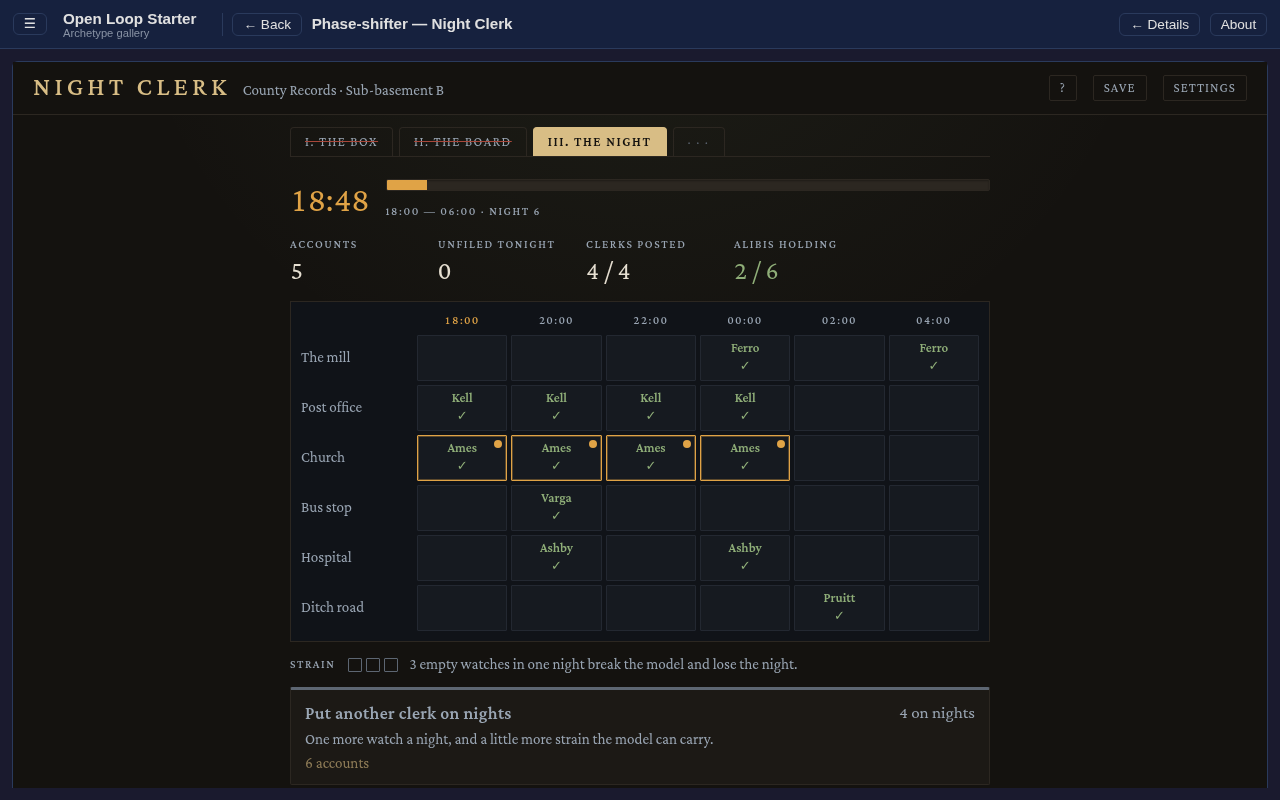
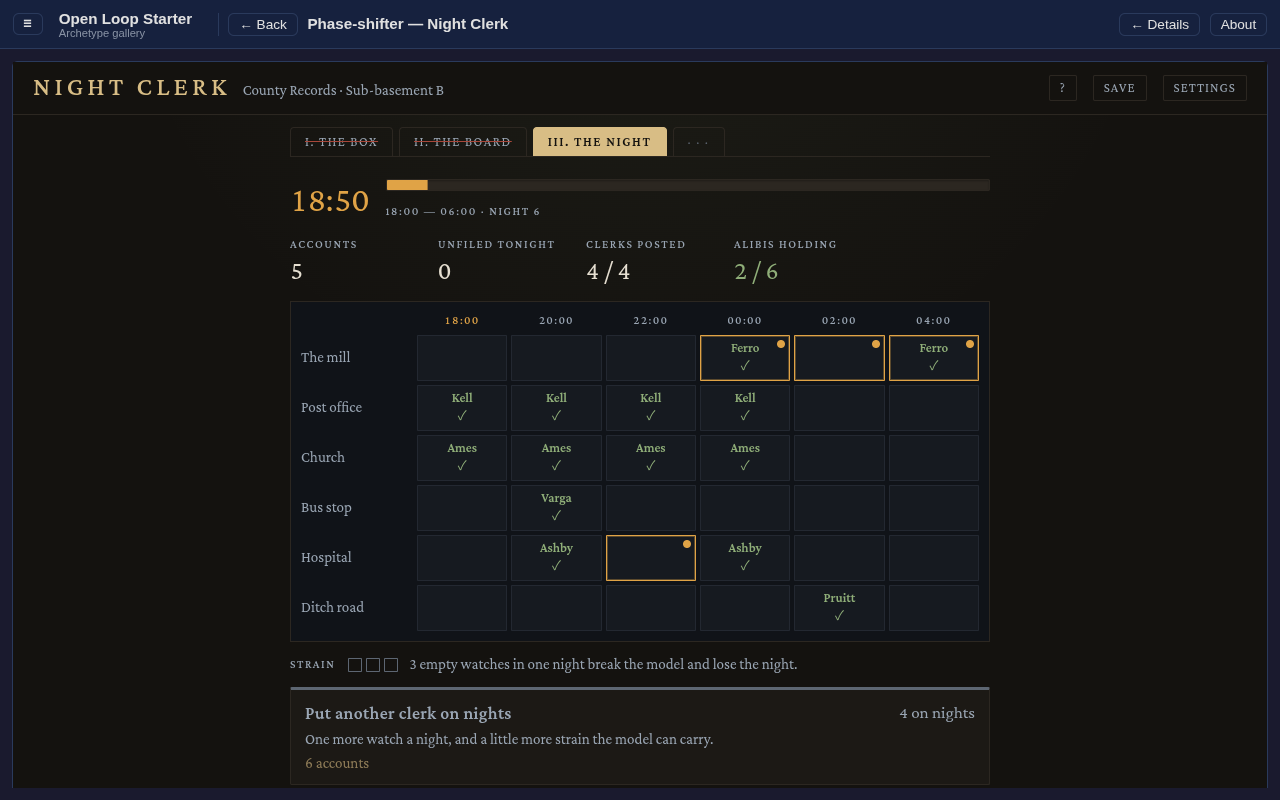
balance(phase-shifter): the reference player is a tick handler
seatPlayer takes one step per tick with no throttle: the player paces a human in wall time, so the caller's one processInterval per wall step is its cadence, and its doc states the bound under insomnia. Both loops take an opening step before the first tick, and door beats are buffered and logged at the next read. The arc and every beat window are unchanged. The saves were already stale and now cut after the in-tick turn, so all three are regenerated and re-shot.

Refs #63

diff --git a/src/showcase/archetypes/phase-shifter/balance/_arc.ts b/src/showcase/archetypes/phase-shifter/balance/_arc.ts
@@ -15,7 +15,7 @@ import {
   getCase,
   getNight,
 } from '../modules';
-import { createReferencePlayer } from './_player';
+import { createReferencePlayer, seatPlayer, type PlayerStep } from './_player';
 
 /** Wall-seconds per interval the runner feeds the driver. */
 export const WALL_STEP = 0.5;
@@ -29,7 +29,7 @@ export interface ArcBeat {
   sim: number;
 }
 
-/** The live arc handed to `onStep`, after that step's beats are recorded. */
+/** The live arc handed to `onStep` at each read, after the read's beats are recorded. */
 export interface ArcState {
   engine: Engine;
   beats: Record<string, ArcBeat>;
@@ -62,42 +62,53 @@ export function runArc(onStep?: (state: ArcState) => void) {
     }
   }
 
+  // A step's doors and last page wait for the next read, and take its stamp, as a read of the
+  // state that step left. The opening step comes before the first tick, as the seat's first
+  // step is inside it.
   const player = createReferencePlayer(WALL_STEP);
+  const steps: PlayerStep[] = [player.step()];
+  const unseat = seatPlayer(engine, player, (step) => steps.push(step));
   let terminated = 'maxWall';
   // A hand loop on purpose: insomnia is game speed, which only `processInterval` applies.
   // `runUntil` advances by `advanceTime`, which ignores `speedMultiplier`, so the arc past
   // insomnia would run at 1×. `replayLive` applies it, but sets `speedMultiplier` itself and
   // restores it on exit, over the game's own write; and it has no predicate to stop on.
-  while (wall < MAX_WALL) {
-    const { opened, readLast } = player.step();
-    for (const door of opened) beat(`door: ${door}`, true);
-    if (readLast) beat('last page', true);
+  try {
+    while (wall < MAX_WALL) {
+      for (const { opened, readLast } of steps.splice(0)) {
+        for (const door of opened) beat(`door: ${door}`, true);
+        if (readLast) beat('last page', true);
+      }
+      beat('first clerk', num(box.clerk.count) >= 1);
+      beat('box empty', num(box.pages) <= 0);
+      beat('board 4×4', board.side.value >= 4);
+      beat('board 5×5', board.side.value >= 5);
+      beat('reconstruct threshold', num(board.leads.cumulative!) >= RECONSTRUCT_LEADS);
+      beat('night 1 filed', night.cycle.count.value >= 1);
+      beat('clerks plan (tier)', automation.tiers.hasReached('planning'));
+      beat('insomnia', night.insomnia.active.value);
+      for (let i = 1; i <= SUSPECTS.length; i++) beat(`alibi ${i}`, night.held.value.length >= i);
 
-    beat('first clerk', num(box.clerk.count) >= 1);
-    beat('box empty', num(box.pages) <= 0);
-    beat('board 4×4', board.side.value >= 4);
-    beat('board 5×5', board.side.value >= 5);
-    beat('reconstruct threshold', num(board.leads.cumulative!) >= RECONSTRUCT_LEADS);
-    beat('night 1 filed', night.cycle.count.value >= 1);
-    beat('clerks plan (tier)', automation.tiers.hasReached('planning'));
-    beat('insomnia', night.insomnia.active.value);
-    for (let i = 1; i <= SUSPECTS.length; i++) beat(`alibi ${i}`, night.held.value.length >= i);
+      onStep?.({ engine, beats });
 
-    onStep?.({ engine, beats });
+      if (kase.closed.value) {
+        terminated = 'closed';
+        break;
+      }
+      if (wall - lastBeatWall > STALL_WALL) {
+        terminated = `stall: no beat for ${STALL_WALL}s`;
+        break;
+      }
 
-    if (kase.closed.value) {
-      terminated = 'closed';
-      break;
+      // Read before the interval: the player can buy insomnia inside it, and the interval
+      // already runs at the speed it began with.
+      const speed = engine.tickDriver.speedMultiplier;
+      engine.tickDriver.processInterval(WALL_STEP);
+      wall += WALL_STEP;
+      sim += WALL_STEP * speed;
     }
-    if (wall - lastBeatWall > STALL_WALL) {
-      terminated = `stall: no beat for ${STALL_WALL}s`;
-      break;
-    }
-
-    const speed = engine.tickDriver.speedMultiplier;
-    engine.tickDriver.processInterval(WALL_STEP);
-    wall += WALL_STEP;
-    sim += WALL_STEP * speed;
+  } finally {
+    unseat();
   }
 
   return { engine, beats, wall, sim, terminated, broken };

diff --git a/src/showcase/archetypes/phase-shifter/balance/_player.ts b/src/showcase/archetypes/phase-shifter/balance/_player.ts
@@ -11,9 +11,10 @@
  *   insomnia once an alibi holds, then plans the night with `planWatches`;
  * - opens each door the moment its record holds, and reads the last page.
  *
- * The caller advances the engine after each step, through the TickDriver's
- * live path, `processInterval`, so insomnia's game speed applies.
+ * `seatPlayer` runs it on the engine's tick driver, one step per wall step, after the
+ * caller's opening step.
  */
+import type { Engine } from '@open-loop/engine';
 import { ANCHORS, bestCell, planWatches, type DoorId } from '../data';
 import { getBoard, getBox, getCase, getNight } from '../modules';
 
@@ -25,7 +26,7 @@ export interface PlayerStep {
   readLast: boolean;
 }
 
-/** Binds the player to the running engine's modules; call `step` once per wall step. */
+/** Binds the player to the running engine's modules; `step` takes one wall step's turn. */
 export function createReferencePlayer(wallStep: number): { step: () => PlayerStep } {
   const { life } = getCase();
   const box = getBox();
@@ -63,4 +64,31 @@ export function createReferencePlayer(wallStep: number): { step: () => PlayerSte
   }
 
   return { step };
+}
+
+/**
+ * Seats the reference player on the engine's tick driver: it takes one step every tick, after
+ * the modules' own tick handlers. The player paces a human in wall time, so its cadence is the
+ * caller's: drive one tick per wall step through `processInterval(wallStep)`, the live path, so
+ * insomnia's game speed applies. One interval stays one tick while `wallStep` times the game
+ * speed is at most the driver's `maxDeltaTime`; a longer one splits, and the player would step
+ * once per part.
+ *
+ * The seat's first step is inside the first tick. The caller takes the opening step before it,
+ * through `player.step`, so the turn at the end of tick N sits where a step before tick N+1 did.
+ *
+ * @param engine - the running engine whose modules the player works
+ * @param player - the player `createReferencePlayer` bound, which the caller's opening step shares
+ * @param onTurn - receives what each step did, for a probe to record
+ * @returns the function that unseats the player; call it when the run ends.
+ */
+export function seatPlayer(
+  engine: Engine,
+  player: { step: () => PlayerStep },
+  onTurn?: (step: PlayerStep) => void,
+): () => void {
+  return engine.tickDriver.onTick(() => {
+    const step = player.step();
+    onTurn?.(step);
+  });
 }

diff --git a/src/showcase/archetypes/phase-shifter/shots/beat-saves.ts b/src/showcase/archetypes/phase-shifter/shots/beat-saves.ts
@@ -11,7 +11,7 @@ import { join } from 'node:path';
 import { Decimal } from '@open-loop/engine';
 import { createPhaseShifterEngine } from '../engine';
 import { getBoard, getBox, getNight } from '../modules';
-import { createReferencePlayer } from '../balance/_player';
+import { createReferencePlayer, seatPlayer } from '../balance/_player';
 
 const WALL_STEP = 0.5;
 const MAX_WALL = 3600;
@@ -23,7 +23,6 @@ engine.tickDriver.stop(); // the loop below drives the ticks
 const box = getBox();
 const board = getBoard();
 const night = getNight();
-const player = createReferencePlayer(WALL_STEP);
 
 /** In beat order: the file stem, and the moment it is saved at. */
 const BEATS: { file: string; at: () => boolean }[] = [
@@ -37,15 +36,22 @@ const BEATS: { file: string; at: () => boolean }[] = [
 
 const dir = import.meta.dirname;
 let next = 0;
-for (let wall = 0; wall < MAX_WALL && next < BEATS.length; wall += WALL_STEP) {
-  player.step();
-  engine.tickDriver.processInterval(WALL_STEP);
-  if (BEATS[next]!.at()) {
-    const { file } = BEATS[next]!;
-    writeFileSync(join(dir, `${file}.save`), engine.saveManager!.exportSave() + '\n');
-    console.log(`${file} at wall ${wall}s`);
-    next++;
+// The arc runner's path: a hand loop on `processInterval`, as `balance/_arc.ts` plays.
+const player = createReferencePlayer(WALL_STEP);
+player.step(); // the opening step, before the first tick
+const unseat = seatPlayer(engine, player);
+try {
+  for (let wall = 0; wall < MAX_WALL && next < BEATS.length; wall += WALL_STEP) {
+    engine.tickDriver.processInterval(WALL_STEP);
+    if (BEATS[next]!.at()) {
+      const { file } = BEATS[next]!;
+      writeFileSync(join(dir, `${file}.save`), engine.saveManager!.exportSave() + '\n');
+      console.log(`${file} at wall ${wall}s`);
+      next++;
+    }
   }
+} finally {
+  unseat();
 }
 if (next < BEATS.length) throw new Error(`stopped before beat ${BEATS[next]!.file}`);
 engine.dispose();
